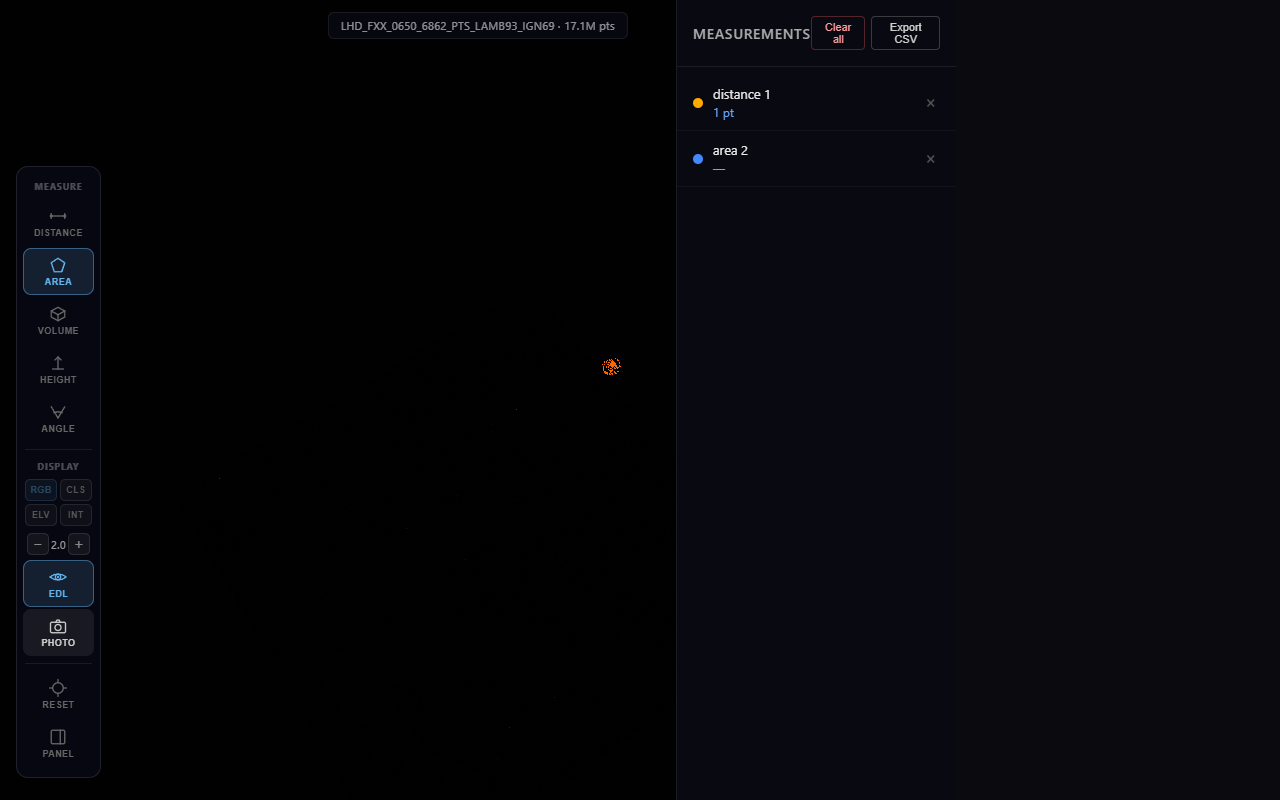
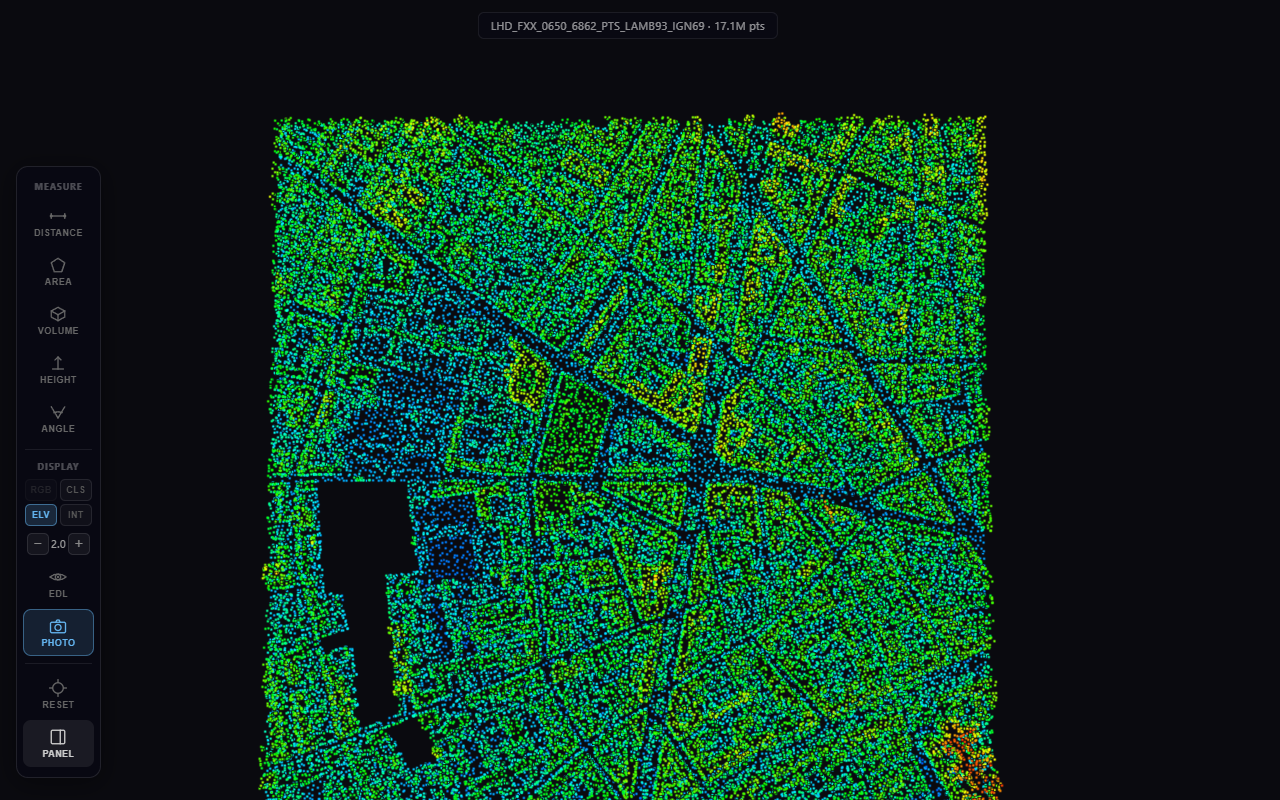
Fix camera framing using real elevation range; fix Gaussian splat depth-write artifacts; retake photo-splat screenshot

diff --git a/packages/web/src/components/ViewerCanvas.tsx b/packages/web/src/components/ViewerCanvas.tsx
@@ -178,17 +178,28 @@ export function ViewerCanvas({ cloudUrl, measurementStore, activeTool, onToolFin
       pcoRef.current = pco;
       scene.add(pco);
 
-      // Frame camera on the loaded cloud
+      // Frame camera on the loaded cloud.
+      // Use real elevation range (not the padded COPC cube) so the camera
+      // targets the actual data centroid rather than the middle of an empty sky.
       const bb = pco.getWorldBoundingBox();
+      const elevRange = pco.geometry.metadata.elevationRange;
       const center = bb.getCenter(new THREE.Vector3());
+      if (elevRange) {
+        // Replace the Y (altitude) component of the center with the real data midpoint
+        center.y = (elevRange[0] + elevRange[1]) / 2;
+      }
+      // XZ extent of the tile (ignore Y padding from COPC cube)
+      const xzSpan = Math.max(bb.max.x - bb.min.x, bb.max.z - bb.min.z);
       const size = bb.getSize(new THREE.Vector3());
+      const effectiveSize = elevRange
+        ? new THREE.Vector3(size.x, elevRange[1] - elevRange[0], size.z)
+        : size;
       target.copy(center);
-      spherical.radius = size.length() * 0.8;
+      spherical.radius = Math.max(xzSpan, effectiveSize.length()) * 0.8;
       // No artificial minimum zoom — clamped to 0.1 world units in the wheel handler.
       updateCamera();
 
-      // Set elevation range from real LAS header extents (not the padded COPC cube)
-      const elevRange = pco.geometry.metadata.elevationRange;
+      // Set elevation range uniforms
       if (elevRange) {
         pco.material.updateElevationRange(elevRange[0], elevRange[1]);
         pco.gaussianMaterial.setElevationRange(elevRange[0], elevRange[1]);

diff --git a/packages/core/src/materials/GaussianSplatMaterial.ts b/packages/core/src/materials/GaussianSplatMaterial.ts
@@ -143,12 +143,10 @@ export class GaussianSplatMaterial extends THREE.RawShaderMaterial {
         uElevationMax: { value: 100 },
         uSpacing:      { value: 1.0 },
       },
-      // Transparent splats with depth write ON so they're visible in the EDL
-      // depth buffer. For mostly-flat terrain viewed from above, the depth
-      // sort artefacts from back-to-front overlap are negligible and the
-      // Gaussian alpha still gives the smooth, splat-like appearance.
+      // Depth writes disabled so overlapping transparent splats from different
+      // octree nodes blend cleanly without cutting each other at node boundaries.
       transparent: true,
-      depthWrite: true,
+      depthWrite: false,
       blending: THREE.NormalBlending,
     });
 